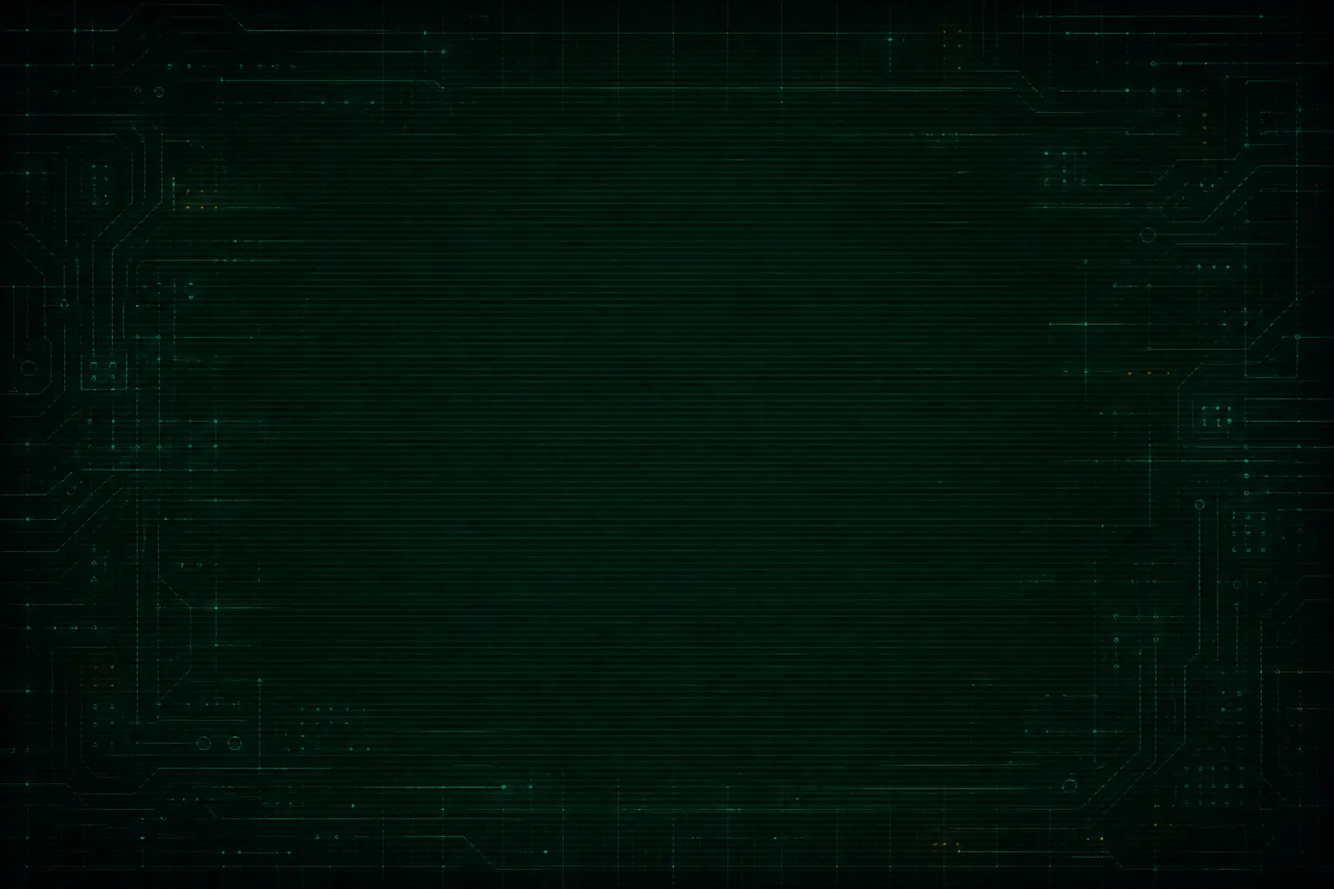
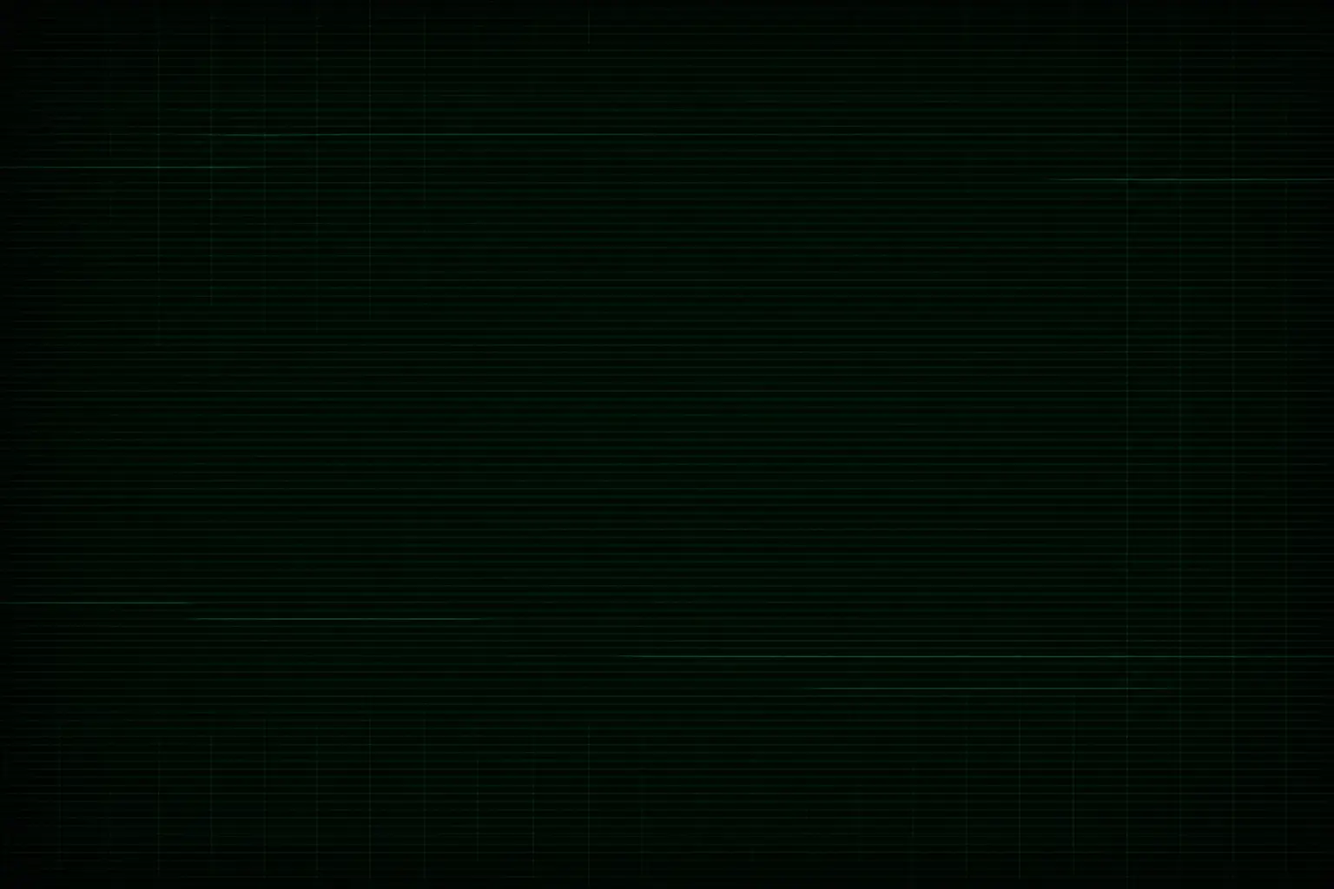
fix: refine lorebook theme art direction

diff --git a/frontend/src/styles.css b/frontend/src/styles.css
@@ -757,21 +757,28 @@ details > summary { padding: 13px 0; color: var(--ink); font-size: 13px; font-we
 .lorebook-theme-button:hover { transform: translateY(-1px); }
 .lorebook-theme-button.active { border-color: var(--nav-accent); box-shadow: 0 0 0 3px var(--nav-deep), 0 0 0 5px var(--nav-accent); transform: scale(.88); }
 .lorebook-theme-button.theme-normal { color: #f0bc65; background: radial-gradient(circle at 35% 30%, #3f6c63, #14322e 72%); }
-.lorebook-theme-button.theme-fantasia { color: #352012; background: radial-gradient(circle at 35% 30%, #efc87d, #9a5228 72%); }
+.lorebook-theme-button.theme-fantasia { color: #6f2f29; background: radial-gradient(circle at 35% 30%, #fff1c8, #d3a76e 72%); }
 .lorebook-theme-button.theme-mechanical { color: #baffd6; background: repeating-linear-gradient(0deg, #071b17 0 2px, #0d402f 2px 3px); }
-.lorebook-theme-button.theme-urban { color: #ffd283; background: radial-gradient(circle at 30% 25%, #d52d87, #4c102f 58%, #170d1b); }
+.lorebook-theme-button.theme-urban { color: #ffca72; background: radial-gradient(circle at 28% 25%, #2bbbd0, #49388f 46%, #0a1732 75%); }
 .lorebook-list button { display: grid; gap: 5px; padding: 12px; border-left: 3px solid transparent; }
 .lorebook-list button.active { border-left-color: var(--signal); background: #fff; }
 .lorebook-list strong { font: 600 14px/1.35 Georgia, "Noto Serif KR", serif; }
 .lorebook-list small { color: var(--muted-text); font-size: 9px; }
+.lorebook-shelf-title { margin: 0; font: 700 21px/1.2 Georgia, "Noto Serif KR", serif; letter-spacing: -.03em; }
 .lorebook-reader { min-width: 0; }
-.lorebook-sheet { padding: clamp(22px, 5vw, 58px); border-left: 4px solid var(--signal); background: #fff; }
+.lorebook-sheet { position: relative; isolation: isolate; overflow: hidden; padding: clamp(22px, 5vw, 58px); border-left: 4px solid var(--signal); background: #fff; }
+.lorebook-sheet > * { position: relative; z-index: 1; }
 .lorebook-sheet-heading { display: flex; justify-content: space-between; align-items: start; gap: 24px; padding-bottom: 24px; border-bottom: 1px solid var(--line); }
 .lorebook-title-block { min-width: 0; }
 .lorebook-title-block h2 { max-width: 920px; margin: 0; overflow-wrap: anywhere; color: var(--ink); font: 600 clamp(28px, 4vw, 47px)/1.12 "Noto Serif KR", "Nanum Myeongjo", Georgia, serif; letter-spacing: -.035em; }
 .lorebook-sheet-heading input { padding: 2px 0; border: 0; border-radius: 0; font: 600 clamp(28px, 4vw, 47px)/1.08 Georgia, "Noto Serif KR", serif; letter-spacing: -.04em; }
 .lorebook-sheet-heading div > span { display: block; margin-top: 8px; color: var(--muted-text); font-size: 10px; }
 .lorebook-heading-actions { flex: 0 0 auto; display: grid; justify-items: end; gap: 12px; }
+.lorebook-heading-actions .lorebook-edit-button {
+  color: var(--nav-accent); border-color: #607f76; background: var(--nav-deep);
+  box-shadow: 0 3px 10px rgba(5,24,20,.16);
+}
+.lorebook-heading-actions .lorebook-edit-button:hover { color: #ffe0a5; border-color: #88a39b; background: var(--nav-active); }
 .lorebook-mark { flex: 0 0 auto; padding: 8px 10px; border: 1px solid #a66c45; color: #97512a; font: 750 9px/1.25 monospace; letter-spacing: .18em; text-align: center; transform: rotate(2deg); }
 .lorebook-body { min-height: 68vh; margin-top: 24px; padding: 4px 0; border: 0; background: transparent; font: 17px/2 Georgia, "Noto Serif KR", serif; }
 .lorebook-body-reader { height: auto; min-height: 55vh; overflow: visible; }
@@ -793,10 +800,15 @@ details > summary { padding: 13px 0; color: var(--ink); font-size: 13px; font-we
 .lorebook-empty { min-height: 480px; display: grid; place-content: center; justify-items: start; }
 
 /* Lorebook themes are a browser-local reading lens; content and export data remain unchanged. */
+html[data-lorebook-theme="fantasia"] .app-main.workspace-main { background: #3c2922; }
+html[data-lorebook-theme="mechanical"] .app-main.workspace-main { background: #010806; }
+html[data-lorebook-theme="urban"] .app-main.workspace-main { background: #080e20; }
+html[data-lorebook-theme] .app-main.workspace-main { transition: background-color .22s ease; }
+
 .lorebook-page[data-lorebook-theme="fantasia"] .lorebook-shelf {
-  color: #3d2718; border-color: #9b6d3c;
-  background-color: #cda66c;
-  background-image: linear-gradient(rgba(232,198,133,.7), rgba(205,159,91,.64)), url('/themes/lorebook-fantasia.webp');
+  color: #743a31; border-color: #a87859;
+  background-color: #ead7ad;
+  background-image: linear-gradient(rgba(250,239,210,.42), rgba(238,217,174,.38)), url('/themes/lorebook-fantasia.webp');
   background-size: cover;
 }
 .lorebook-page[data-lorebook-theme="fantasia"] .lorebook-theme-toolbar,
@@ -805,35 +817,38 @@ details > summary { padding: 13px 0; color: var(--ink); font-size: 13px; font-we
 .lorebook-page[data-lorebook-theme="fantasia"] .lorebook-theme-heading span,
 .lorebook-page[data-lorebook-theme="fantasia"] .lorebook-list small,
 .lorebook-page[data-lorebook-theme="fantasia"] .lorebook-title-block > span,
-.lorebook-page[data-lorebook-theme="fantasia"] .lorebook-read-note { color: #664428; }
+.lorebook-page[data-lorebook-theme="fantasia"] .lorebook-read-note { color: #805249; }
 .lorebook-page[data-lorebook-theme="fantasia"] .lorebook-theme-heading strong,
 .lorebook-page[data-lorebook-theme="fantasia"] .lorebook-list strong,
 .lorebook-page[data-lorebook-theme="fantasia"] .lorebook-title-block h2,
 .lorebook-page[data-lorebook-theme="fantasia"] .lorebook-body-reader h2,
 .lorebook-page[data-lorebook-theme="fantasia"] .lorebook-body-reader h3,
-.lorebook-page[data-lorebook-theme="fantasia"] .lorebook-body-reader h4 { color: #352013; }
-.lorebook-page[data-lorebook-theme="fantasia"] .lorebook-list button { color: #3d2718; }
+.lorebook-page[data-lorebook-theme="fantasia"] .lorebook-body-reader h4 { color: #652820; font-weight: 700; }
+.lorebook-page[data-lorebook-theme="fantasia"] .lorebook-shelf-title { color: #7b2d25; font-size: 23px; font-weight: 800; text-shadow: 0 1px rgba(255,248,220,.8); }
+.lorebook-page[data-lorebook-theme="fantasia"] .lorebook-list button { color: #71362f; }
 .lorebook-page[data-lorebook-theme="fantasia"] .lorebook-list button:hover,
-.lorebook-page[data-lorebook-theme="fantasia"] .lorebook-list button.active { border-color: rgba(91,54,27,.38); background: rgba(255,240,200,.56); }
-.lorebook-page[data-lorebook-theme="fantasia"] .lorebook-list button.active { border-left-color: #8e3e23; }
-.lorebook-page[data-lorebook-theme="fantasia"] .badge { color: #5a3b21; border-color: #9f7246; background: rgba(247,222,170,.58); }
+.lorebook-page[data-lorebook-theme="fantasia"] .lorebook-list button.active { border-color: rgba(121,59,45,.38); background: rgba(255,248,224,.62); }
+.lorebook-page[data-lorebook-theme="fantasia"] .lorebook-list button.active { border-left-color: #9a4334; }
+.lorebook-page[data-lorebook-theme="fantasia"] .badge { color: #783a30; border-color: #b58665; background: rgba(255,244,216,.62); }
 .lorebook-page[data-lorebook-theme="fantasia"] .lorebook-sheet {
-  color: #40291a; border-color: #9b4727;
-  background-color: #d8ae6c;
-  background-image: linear-gradient(rgba(244,214,154,.69), rgba(222,177,104,.71)), url('/themes/lorebook-fantasia.webp');
+  color: #71362f; border-color: #a94c3c;
+  background-color: #f0dfb8;
+  background-image: linear-gradient(rgba(255,247,222,.34), rgba(241,221,180,.3)), url('/themes/lorebook-fantasia.webp');
   background-size: cover; background-attachment: local;
-  box-shadow: inset 0 0 70px rgba(83,42,17,.12), 0 12px 32px rgba(72,43,21,.15);
+  box-shadow: inset 0 0 48px rgba(122,68,42,.06), 0 14px 34px rgba(24,12,8,.28);
 }
-.lorebook-page[data-lorebook-theme="fantasia"] .eyebrow { color: #7a3d20; }
-.lorebook-page[data-lorebook-theme="fantasia"] .lorebook-mark { color: #71381d; border-color: #814521; }
+.lorebook-page[data-lorebook-theme="fantasia"] .lorebook-title-block h2 { font-weight: 750; }
+.lorebook-page[data-lorebook-theme="fantasia"] .lorebook-body { font-weight: 600; text-shadow: 0 1px rgba(255,248,225,.6); }
+.lorebook-page[data-lorebook-theme="fantasia"] .eyebrow { color: #8b3f33; }
+.lorebook-page[data-lorebook-theme="fantasia"] .lorebook-mark { color: #7e3229; border-color: #9a4d3c; }
 .lorebook-page[data-lorebook-theme="fantasia"] .lorebook-body-editor,
 .lorebook-page[data-lorebook-theme="fantasia"] .lorebook-sheet-heading input,
-.lorebook-page[data-lorebook-theme="fantasia"] .lorebook-actions select { color: #352013; border-color: #9f7246; background: rgba(255,239,198,.66); }
+.lorebook-page[data-lorebook-theme="fantasia"] .lorebook-actions select { color: #71362f; border-color: #b58665; background: rgba(255,248,224,.72); font-weight: 600; }
 
 .lorebook-page[data-lorebook-theme="mechanical"] .lorebook-shelf {
-  color: #a9f5ca; border-color: #287b5b;
-  background-color: #061713;
-  background-image: linear-gradient(rgba(3,22,18,.56), rgba(3,22,18,.74)), url('/themes/lorebook-mechanical.webp');
+  color: #73ff9e; border-color: #1b7042;
+  background-color: #010d08;
+  background-image: linear-gradient(rgba(0,13,7,.22), rgba(0,12,7,.32)), url('/themes/lorebook-mechanical.webp');
   background-size: cover;
 }
 .lorebook-page[data-lorebook-theme="mechanical"] .lorebook-theme-toolbar,
@@ -842,77 +857,93 @@ details > summary { padding: 13px 0; color: var(--ink); font-size: 13px; font-we
 .lorebook-page[data-lorebook-theme="mechanical"] .lorebook-theme-heading span,
 .lorebook-page[data-lorebook-theme="mechanical"] .lorebook-list small,
 .lorebook-page[data-lorebook-theme="mechanical"] .lorebook-title-block > span,
-.lorebook-page[data-lorebook-theme="mechanical"] .lorebook-read-note { color: #71bd97; }
+.lorebook-page[data-lorebook-theme="mechanical"] .lorebook-read-note { color: #5fcd83; }
 .lorebook-page[data-lorebook-theme="mechanical"] .lorebook-theme-heading strong,
-.lorebook-page[data-lorebook-theme="mechanical"] .lorebook-shelf h3,
 .lorebook-page[data-lorebook-theme="mechanical"] .mobile-document-picker,
 .lorebook-page[data-lorebook-theme="mechanical"] .lorebook-list strong,
 .lorebook-page[data-lorebook-theme="mechanical"] .lorebook-title-block h2,
 .lorebook-page[data-lorebook-theme="mechanical"] .lorebook-body-reader h2,
 .lorebook-page[data-lorebook-theme="mechanical"] .lorebook-body-reader h3,
-.lorebook-page[data-lorebook-theme="mechanical"] .lorebook-body-reader h4 { color: #b9ffd8; text-shadow: 0 0 12px rgba(46,255,151,.18); }
-.lorebook-page[data-lorebook-theme="mechanical"] .lorebook-list button { color: #a9f5ca; }
+.lorebook-page[data-lorebook-theme="mechanical"] .lorebook-body-reader h4 { color: #8affad; text-shadow: 0 0 9px rgba(64,255,133,.27); }
+.lorebook-page[data-lorebook-theme="mechanical"] .lorebook-shelf-title { color: #7dffa4; font: 800 22px/1.15 ui-monospace, "SFMono-Regular", Consolas, "Noto Sans KR", monospace; letter-spacing: .08em; text-shadow: 0 0 10px rgba(48,255,122,.42); }
+.lorebook-page[data-lorebook-theme="mechanical"] .lorebook-list button { color: #73ff9e; }
 .lorebook-page[data-lorebook-theme="mechanical"] .lorebook-list button:hover,
-.lorebook-page[data-lorebook-theme="mechanical"] .lorebook-list button.active { border-color: #246d52; background: rgba(15,71,51,.7); }
-.lorebook-page[data-lorebook-theme="mechanical"] .lorebook-list button.active { border-left-color: #52f3a3; }
-.lorebook-page[data-lorebook-theme="mechanical"] .badge { color: #9affc6; border-color: #2b7558; background: rgba(6,40,29,.82); }
+.lorebook-page[data-lorebook-theme="mechanical"] .lorebook-list button.active { border-color: #1b7544; background: rgba(4,55,29,.68); }
+.lorebook-page[data-lorebook-theme="mechanical"] .lorebook-list button.active { border-left-color: #66ff96; }
+.lorebook-page[data-lorebook-theme="mechanical"] .badge { color: #84ffa8; border-color: #277a49; background: rgba(0,31,16,.84); }
 .lorebook-page[data-lorebook-theme="mechanical"] .lorebook-sheet {
-  color: #a9efc7; border-color: #45e698;
-  background-color: #031713;
-  background-image: linear-gradient(rgba(2,22,17,.78), rgba(2,24,18,.81)), url('/themes/lorebook-mechanical.webp');
+  color: #72ff9d; border-color: #4dff85;
+  background-color: #000c07;
+  background-image: linear-gradient(rgba(0,12,7,.28), rgba(0,13,7,.35)), url('/themes/lorebook-mechanical.webp');
   background-size: cover; background-attachment: local;
-  box-shadow: inset 0 0 80px rgba(24,205,119,.05), 0 0 24px rgba(19,125,82,.13);
+  box-shadow: inset 0 0 60px rgba(0,0,0,.28), 0 0 28px rgba(30,255,108,.11);
   font-family: ui-monospace, "SFMono-Regular", Consolas, "Noto Sans KR", monospace;
 }
-.lorebook-page[data-lorebook-theme="mechanical"] .eyebrow { color: #68eaae; }
-.lorebook-page[data-lorebook-theme="mechanical"] .lorebook-mark { color: #90ffbf; border-color: #45b77c; }
-.lorebook-page[data-lorebook-theme="mechanical"] .lorebook-body { font-family: ui-monospace, "SFMono-Regular", Consolas, "Noto Sans KR", monospace; letter-spacing: .015em; }
+.lorebook-page[data-lorebook-theme="mechanical"] .lorebook-sheet::after {
+  content: ""; position: absolute; z-index: 0; inset: 0; pointer-events: none;
+  background: repeating-linear-gradient(0deg, transparent 0 4px, rgba(80,255,139,.05) 4px 5px), linear-gradient(90deg, transparent 0 22%, rgba(83,255,141,.08) 22% 22.3%, transparent 22.3% 67%, rgba(83,255,141,.06) 67% 67.2%, transparent 67.2%);
+  opacity: .15; animation: lorebook-crt-glitch 8s steps(1, end) infinite;
+}
+.lorebook-page[data-lorebook-theme="mechanical"] .eyebrow { color: #65ff98; }
+.lorebook-page[data-lorebook-theme="mechanical"] .lorebook-mark { color: #84ffa9; border-color: #3bd671; }
+.lorebook-page[data-lorebook-theme="mechanical"] .lorebook-body { font-family: ui-monospace, "SFMono-Regular", Consolas, "Noto Sans KR", monospace; font-weight: 560; letter-spacing: .015em; text-shadow: 0 0 6px rgba(55,255,126,.16); }
 .lorebook-page[data-lorebook-theme="mechanical"] .lorebook-body-editor,
 .lorebook-page[data-lorebook-theme="mechanical"] .lorebook-sheet-heading input,
-.lorebook-page[data-lorebook-theme="mechanical"] .lorebook-actions select { color: #b9ffd8; border-color: #287b5b; background: rgba(2,28,20,.82); caret-color: #f0bc65; }
+.lorebook-page[data-lorebook-theme="mechanical"] .lorebook-actions select { color: #7dffa4; border-color: #25794a; background: rgba(0,27,14,.86); caret-color: #f0bc65; }
 
 .lorebook-page[data-lorebook-theme="urban"] .lorebook-shelf {
-  color: #f0c6d5; border-color: #7c365c;
-  background-color: #24101e;
-  background-image: linear-gradient(rgba(34,11,29,.68), rgba(45,13,34,.7)), url('/themes/lorebook-urban.webp');
+  color: #dce7ff; border-color: #344e88;
+  background-color: #09172f;
+  background-image: linear-gradient(rgba(5,16,39,.47), rgba(7,18,43,.58)), url('/themes/lorebook-urban.webp');
   background-size: cover;
 }
 .lorebook-page[data-lorebook-theme="urban"] .lorebook-theme-toolbar,
 .lorebook-page[data-lorebook-theme="urban"] .lorebook-sheet-heading,
-.lorebook-page[data-lorebook-theme="urban"] .lorebook-actions { border-color: rgba(225,89,151,.35); }
+.lorebook-page[data-lorebook-theme="urban"] .lorebook-actions { border-color: rgba(95,166,218,.38); }
 .lorebook-page[data-lorebook-theme="urban"] .lorebook-theme-heading span,
 .lorebook-page[data-lorebook-theme="urban"] .lorebook-list small,
 .lorebook-page[data-lorebook-theme="urban"] .lorebook-title-block > span,
-.lorebook-page[data-lorebook-theme="urban"] .lorebook-read-note { color: #cf94ad; }
+.lorebook-page[data-lorebook-theme="urban"] .lorebook-read-note { color: #91abd7; }
 .lorebook-page[data-lorebook-theme="urban"] .lorebook-theme-heading strong,
-.lorebook-page[data-lorebook-theme="urban"] .lorebook-shelf h3,
 .lorebook-page[data-lorebook-theme="urban"] .mobile-document-picker,
 .lorebook-page[data-lorebook-theme="urban"] .lorebook-list strong,
 .lorebook-page[data-lorebook-theme="urban"] .lorebook-title-block h2,
 .lorebook-page[data-lorebook-theme="urban"] .lorebook-body-reader h2,
 .lorebook-page[data-lorebook-theme="urban"] .lorebook-body-reader h3,
-.lorebook-page[data-lorebook-theme="urban"] .lorebook-body-reader h4 { color: #ffd5e3; text-shadow: 0 0 16px rgba(229,58,142,.18); }
-.lorebook-page[data-lorebook-theme="urban"] .lorebook-list button { color: #f0c6d5; }
+.lorebook-page[data-lorebook-theme="urban"] .lorebook-body-reader h4 { color: #e8e1ff; text-shadow: 0 0 13px rgba(119,185,255,.18); }
+.lorebook-page[data-lorebook-theme="urban"] .lorebook-shelf-title { color: #eef2ff; font: 800 22px/1.15 Pretendard, "Noto Sans KR", sans-serif; letter-spacing: -.045em; text-shadow: 0 0 13px rgba(98,196,255,.4); }
+.lorebook-page[data-lorebook-theme="urban"] .lorebook-list button { color: #dce7ff; }
 .lorebook-page[data-lorebook-theme="urban"] .lorebook-list button:hover,
-.lorebook-page[data-lorebook-theme="urban"] .lorebook-list button.active { border-color: #783257; background: rgba(87,24,61,.72); }
-.lorebook-page[data-lorebook-theme="urban"] .lorebook-list button.active { border-left-color: #e35b9d; }
-.lorebook-page[data-lorebook-theme="urban"] .badge { color: #ffd28a; border-color: #8c4968; background: rgba(54,15,42,.8); }
+.lorebook-page[data-lorebook-theme="urban"] .lorebook-list button.active { border-color: #395d9c; background: rgba(17,45,90,.7); }
+.lorebook-page[data-lorebook-theme="urban"] .lorebook-list button.active { border-left-color: #64d4f3; }
+.lorebook-page[data-lorebook-theme="urban"] .badge { color: #ffd084; border-color: #496ba4; background: rgba(5,23,53,.82); }
 .lorebook-page[data-lorebook-theme="urban"] .lorebook-sheet {
-  color: #f0cad5; border-color: #d94f90;
-  background-color: #230d20;
-  background-image: linear-gradient(rgba(35,9,29,.76), rgba(39,9,31,.78)), url('/themes/lorebook-urban.webp');
+  color: #dbe7ff; border-color: #5ccdea;
+  background-color: #071630;
+  background-image: linear-gradient(rgba(5,17,42,.56), rgba(6,18,45,.62)), url('/themes/lorebook-urban.webp');
   background-size: cover; background-attachment: local;
-  box-shadow: inset 0 0 76px rgba(215,46,128,.07), 0 12px 34px rgba(56,9,41,.17);
+  box-shadow: inset 0 0 68px rgba(2,9,26,.18), 0 14px 34px rgba(1,5,18,.35);
 }
-.lorebook-page[data-lorebook-theme="urban"] .eyebrow { color: #f0bc65; }
-.lorebook-page[data-lorebook-theme="urban"] .lorebook-mark { color: #ffd08a; border-color: #cc6a74; }
+.lorebook-page[data-lorebook-theme="urban"] .eyebrow { color: #ffca78; }
+.lorebook-page[data-lorebook-theme="urban"] .lorebook-mark { color: #ffd084; border-color: #5fc6df; }
 .lorebook-page[data-lorebook-theme="urban"] .lorebook-body-editor,
 .lorebook-page[data-lorebook-theme="urban"] .lorebook-sheet-heading input,
-.lorebook-page[data-lorebook-theme="urban"] .lorebook-actions select { color: #ffd5e3; border-color: #84385f; background: rgba(42,10,34,.82); caret-color: #f0bc65; }
+.lorebook-page[data-lorebook-theme="urban"] .lorebook-actions select { color: #e6edff; border-color: #3d5f99; background: rgba(5,23,55,.84); caret-color: #f0bc65; }
 
-.lorebook-page:not([data-lorebook-theme="normal"]) .lorebook-sheet .secondary,
 .lorebook-page:not([data-lorebook-theme="normal"]) .lorebook-sheet .ghost { color: var(--nav-accent); border-color: currentColor; background: rgba(10,20,18,.24); }
 .lorebook-page:not([data-lorebook-theme="normal"]) .lorebook-sheet .danger-button { color: #ffaaa3; border-color: rgba(255,170,163,.6); background: rgba(35,10,14,.28); }
+
+@keyframes lorebook-crt-glitch {
+  0%, 89%, 94%, 100% { clip-path: inset(0); opacity: .13; transform: translateX(0); }
+  90% { clip-path: inset(16% 0 76%); opacity: .28; transform: translateX(9px); }
+  91% { clip-path: inset(52% 0 39%); opacity: .2; transform: translateX(-6px); }
+  92% { clip-path: inset(78% 0 14%); opacity: .26; transform: translateX(5px); }
+  93% { clip-path: inset(31% 0 61%); opacity: .16; transform: translateX(-3px); }
+}
+
+@media (prefers-reduced-motion: reduce) {
+  .lorebook-page[data-lorebook-theme="mechanical"] .lorebook-sheet::after { animation: none; opacity: .09; }
+}
 
 @media (max-width: 1240px) {
   .archive-layout { grid-template-columns: 280px minmax(0, 1fr); }

diff --git a/frontend/tests/workspace.spec.js b/frontend/tests/workspace.spec.js
@@ -427,6 +427,17 @@ test('lorebook reading themes switch, persist, and leave content actions unchang
     ['메카니컬', 'mechanical', 'lorebook-mechanical.webp'],
     ['어반 판타지', 'urban', 'lorebook-urban.webp']
   ];
+  const workspaceColors = {
+    fantasia: 'rgb(60, 41, 34)',
+    mechanical: 'rgb(1, 8, 6)',
+    urban: 'rgb(8, 14, 32)'
+  };
+  const shelfTitleColors = {
+    normal: 'rgb(24, 48, 44)',
+    fantasia: 'rgb(123, 45, 37)',
+    mechanical: 'rgb(125, 255, 164)',
+    urban: 'rgb(238, 242, 255)'
+  };
 
   await expect(page.getByRole('group', { name: '로어북 열람 테마' })).toBeVisible();
   await expect(page.getByRole('button', { name: '로어북 테마: 노말' })).toHaveAttribute('aria-pressed', 'true');
@@ -434,9 +445,17 @@ test('lorebook reading themes switch, persist, and leave content actions unchang
     await page.getByRole('button', { name: `로어북 테마: ${name}` }).click();
     await expect(lorebookPage).toHaveAttribute('data-lorebook-theme', id);
     await expect(page.getByRole('button', { name: `로어북 테마: ${name}` })).toHaveAttribute('aria-pressed', 'true');
+    await expect(page.getByRole('heading', { name: '책장' })).toHaveCSS('color', shelfTitleColors[id]);
+    await expect(page.getByRole('button', { name: '글 편집' })).toHaveCSS('background-color', 'rgb(20, 50, 46)');
+    await expect(page.getByRole('button', { name: '글 편집' })).toHaveCSS('color', 'rgb(240, 188, 101)');
     if (asset) {
       const backgroundImage = await page.locator('.lorebook-sheet').evaluate((node) => getComputedStyle(node).backgroundImage);
       expect(backgroundImage).toContain(asset);
+      await expect(page.locator('.workspace-main')).toHaveCSS('background-color', workspaceColors[id]);
+    }
+    if (id === 'mechanical') {
+      const glitchAnimation = await page.locator('.lorebook-sheet').evaluate((node) => getComputedStyle(node, '::after').animationName);
+      expect(glitchAnimation).toBe('lorebook-crt-glitch');
     }
   }
 
@@ -447,9 +466,10 @@ test('lorebook reading themes switch, persist, and leave content actions unchang
   await expect(page.getByRole('button', { name: '로어북 테마: 어반 판타지' })).toHaveAttribute('aria-pressed', 'true');
   await page.getByRole('button', { name: '글 편집' }).click();
   await expect(page.getByLabel('로어북 글 내용')).toHaveJSProperty('tagName', 'TEXTAREA');
-  await expect(page.getByLabel('로어북 글 내용')).toHaveCSS('color', 'rgb(255, 213, 227)');
+  await expect(page.getByLabel('로어북 글 내용')).toHaveCSS('color', 'rgb(230, 237, 255)');
   await page.getByRole('button', { name: '취소' }).click();
-  await page.getByRole('button', { name: '로어북 테마: 노말' }).click();
+  await page.goto('/documents');
+  await expect(page.locator('html')).not.toHaveAttribute('data-lorebook-theme');
 });
 
 test('a project can be added after projects already exist', async ({ page }, testInfo) => {

diff --git a/frontend/src/routes/lorebook/+page.svelte b/frontend/src/routes/lorebook/+page.svelte
@@ -23,13 +23,20 @@
   onMount(() => {
     const storedTheme = localStorage.getItem(LOREBOOK_THEME_KEY);
     if (lorebookThemes.some((theme) => theme.id === storedTheme)) lorebookTheme = storedTheme;
+    syncWorkspaceTheme();
     loadInitial();
+    return () => document.documentElement.removeAttribute('data-lorebook-theme');
   });
 
   function selectTheme(themeId) {
     if (!lorebookThemes.some((theme) => theme.id === themeId)) return;
     lorebookTheme = themeId;
     localStorage.setItem(LOREBOOK_THEME_KEY, themeId);
+    syncWorkspaceTheme();
+  }
+
+  function syncWorkspaceTheme() {
+    document.documentElement.dataset.lorebookTheme = lorebookTheme;
   }
 
   async function loadInitial() {
@@ -147,7 +154,7 @@
           {/each}
         </div>
       </div>
-      <div class="row spread"><div><p class="eyebrow">완성된 글</p><h3 style="margin:0">책장</h3></div><span class="badge">{entries.length}</span></div>
+      <div class="row spread"><div><p class="eyebrow">완성된 글</p><h3 class="lorebook-shelf-title">책장</h3></div><span class="badge">{entries.length}</span></div>
       <label class="mobile-document-picker">읽을 글<select value={selected?.id || ''} on:change={(event) => selectEntry(entries.find((entry) => entry.id === event.currentTarget.value) || null)}>{#each entries as entry}<option value={entry.id}>{entry.title}</option>{/each}</select></label>
       <div class="list lorebook-list">
         {#each entries as entry}
@@ -167,7 +174,7 @@
               {#if editing}<input aria-label="로어북 글 제목" bind:value={selected.title} />{:else}<h2>{selected.title}</h2>{/if}
               <span>{statusLabel(selected.status)} · {selected.body_markdown.length.toLocaleString()}자 · {new Date(selected.published_at || selected.updated_at).toLocaleString('ko-KR')}</span>
             </div>
-            <div class="lorebook-heading-actions"><span class="lorebook-mark">LORE<br />BOOK</span>{#if !editing}<button class="secondary" on:click={() => editing = true}>글 편집</button>{/if}</div>
+            <div class="lorebook-heading-actions"><span class="lorebook-mark">LORE<br />BOOK</span>{#if !editing}<button class="secondary lorebook-edit-button" on:click={() => editing = true}>글 편집</button>{/if}</div>
           </header>
           {#if editing}
             <textarea class="lorebook-body lorebook-body-editor" aria-label="로어북 글 내용" bind:value={selected.body_markdown}></textarea>

diff --git a/docs/UI_PAGE_CONTRACT.md b/docs/UI_PAGE_CONTRACT.md
@@ -309,7 +309,9 @@
 
 - `.lorebook-layout`은 책장과 읽기 면의 2열입니다.
 - 책장 왼쪽 상단의 네 원형 버튼은 `노말 / 판타지아 / 메카니컬 / 어반 판타지` 열람 테마입니다. 선택은 브라우저 로컬 설정으로만 유지하며 프로젝트·본문·생성 입력·내보내기 데이터에 기록하지 않습니다.
-- 노말은 기존 종이 문서를 보존하고, 나머지 테마는 저대비 배경 질감과 전용 글자색을 사용합니다. 읽기·편집 양쪽에서 본문과 모든 동작의 대비를 유지하며 선택 상태는 금색 ring·번호·`aria-pressed`로 함께 표시합니다.
+- 노말은 기존 종이 문서를 보존합니다. 판타지아는 밝은 황백색 양피지와 굵은 적갈색 글자, 메카니컬은 거의 검은 단순 선형 CRT와 밝은 형광 녹색 글자·배경 한정 미세 글리치, 어반 판타지는 공포 질감이 없는 남색 기반 비 내린 도시 네온과 밝은 청백색 글자를 사용합니다.
+- 비노말 테마에서는 `.workspace-main`의 문서 밖 여백을 해당 이미지보다 어두운 단색으로 연결합니다. `글 편집`은 테마가 덮어쓰지 않는 공통 진녹색·금색 버튼이며 모든 테마에서 같은 컴포넌트 표현을 유지합니다.
+- 읽기·편집 양쪽에서 본문과 모든 동작의 대비를 유지하며 선택 상태는 금색 ring·번호·`aria-pressed`로 함께 표시합니다. 움직임 줄이기 환경에서는 CRT 글리치 애니메이션을 중단합니다.
 - `.lorebook-sheet`는 입력 form이 아니라 종이 문서처럼 읽히는 것이 기본입니다.
 - `글 편집` 뒤에만 제목·본문·상태 입력이 열립니다. 저장·취소 뒤 읽기 모드로 돌아갑니다.
 - 읽기 모드의 문단 줄바꿈과 긴 제목을 보존합니다.
@@ -358,7 +360,7 @@
 | 결과물 형태 | 선택값이 견본에 즉시 안 보임, 견본이 viewport에서 잘림, 의미 설명 없이 select만 나열 |
 | 확인·작성 | 수정 후 확인으로 못 돌아옴, 취소해도 선택이 남음, 실행 전 단계가 녹색 |
 | 원고 작업 | 제목 toolbar의 과도한 여백·버튼 오정렬, 문단 카드 사이의 큰 공백, 세 원고 도구가 동시에 본문과 경쟁, 완성 설정이 견본 없는 form 묶음, 완성본 확인의 반복 수정 버튼, 모바일 단계 이동 후 새 화면 상단 이탈, 본문 스크롤 불가, 하단 계속 버튼 접근 불가 |
-| 로어북 | 기본 편집 상태, 출처 초안까지 함께 삭제, provenance가 본문보다 우세, 테마가 본문·내보내기 데이터에 섞임, 질감 때문에 읽기·편집 대비가 무너짐 |
+| 로어북 | 기본 편집 상태, 출처 초안까지 함께 삭제, provenance가 본문보다 우세, 테마가 본문·내보내기 데이터에 섞임, 질감 때문에 읽기·편집 대비가 무너짐, 문서 밖 여백이 밝게 떠 보임, 공통 `글 편집` 버튼이 테마마다 달라짐, 어반 판타지가 공포 질감으로 퇴행함 |
 | 공통 | tooltip 잘림, 모바일 가로 overflow, 빈 command bar, 죽은 버튼, orphan modal |
 
 ## 13. 변경 시 적용 순서

diff --git a/VERIFICATION.md b/VERIFICATION.md
@@ -32,7 +32,7 @@
 - 모바일 전개 방식 화면 390×844: 문서/탭 가로 넘침 없음, 네 탭 `nowrap`, browser pageerror 없음 PASS
 - 글 만들기·원고 작업 단계 메뉴의 `page-tools` 결합, 글 만들기 본문 외곽 여백 0, 자료 종류 추천 설정 제거를 1600×900/390×844/360×844에서 확인; 가로 넘침·pageerror 없음 PASS
 - 원고 작업 3단계 표현 개편: 초안 제목 toolbar 상단 padding 4px·제목/동작 하단 정렬·문단/카드 내부 간격 8px, `재작성 / 문장 점검 / 설정 후보` 단일 활성 원고 도구, 글 만들기와 같은 완성본 견본·선택 deck, 항목별 수정 버튼이 없는 완성본 요약을 실제 데이터 desktop/mobile `2 passed`; 390×844·360×844 단계 전환 뒤 견본 y=97px·최종 요약 y=91px, 가로 overflow·pageerror 없음 PASS
-- 로어북 로컬 열람 테마: 노말·판타지아·메카니컬·어반 판타지 원형 선택, 새로고침 유지, 본문·내보내기 불변과 어반 편집 입력 대비를 실제 데이터 desktop/mobile `2 passed`; 생성 WebP 40–260KB, 1600×900·390×844·360×844 스크린샷에서 버튼/책장/reader 잘림·가로 overflow·pageerror 없음 PASS
+- 로어북 로컬 열람 테마: 밝은 황백색·굵은 적갈색 판타지아, 단순 선형 암부·형광 녹색·8초 간격 배경 글리치 메카니컬, 공포 질감을 제거한 남색 도시 네온 어반 판타지로 재조정. 이미지보다 어두운 `.workspace-main`, 테마별 `책장` 제목, 네 테마 공통 진녹색·금색 `글 편집`, route 이탈 시 배경 정리를 실제 데이터 desktop/mobile `2 passed`; 생성 WebP 16–88KB, 1600×900·390×844·360×844 스크린샷에서 잘림·가로 overflow·pageerror 없음 PASS
 - 73개 Diablo 자료에서 글 만들기 카드 18개 제한, 모바일 선택 영역 456px, 데스크톱 자료 목록 848px/내부 스크롤, `종족·생물` 필터, 단계 이동 pageerror 없음 PASS
 - 모바일 프로젝트 생성 창 366×758(하단 메뉴 위), 프로젝트 제목 첫 화면 y=408, 로어북 읽기 기본/편집 왕복, 원고 도구 점프 PASS
 - 원고 저장 회귀: 제목·문단 수정과 새 문단 추가 → 다음 단계 자동 저장 → 새로고침 복원 → 테스트 데이터 원상복구 PASS

diff --git a/docs/ACCEPTANCE_TESTS.md b/docs/ACCEPTANCE_TESTS.md
@@ -39,6 +39,6 @@
 | 35 | 페이지 UI 안전성 재감사 | PASS | 글 만들기 footer 수직 밀도, 문체·필력 공통 작업면 간격·높이·스크롤, 100개 설정 카드 높이 보존, 3개 viewport 고아·overflow 검사 |
 | 36 | 프로젝트 로컬 UI 안전 점검 | PASS | `$lore-studio-ui-safety`가 UI 계약·변경 체크리스트를 로드하고 route·migration·manifest·API 경유 정적 preflight를 실행하며 변경 유형별 문서·테스트 동기화 범위를 지정 |
 | 37 | 원고 작업 3단계 시각 단순화 | PASS | 콤팩트 제목·동작 정렬, 8px 문단 간격, 단일 활성 원고 도구, 결과 견본형 완성 설정, 수정 버튼 없는 최종 요약, 390px·360px 단계 전환 상단 복귀 |
-| 38 | 로어북 로컬 열람 테마 | PASS | 노말·판타지아·메카니컬·어반 판타지 전환/새로고침 유지, 읽기·편집 대비, 본문·내보내기 불변, desktop/mobile/narrow overflow 검사 |
+| 38 | 로어북 로컬 열람 테마 | PASS | 밝은 양피지·형광 CRT 글리치·남색 도시 네온 역할, 어두운 작업면 여백, 공통 편집 버튼, 전환/새로고침 유지, 읽기·편집 대비, 본문·내보내기 불변, desktop/mobile/narrow overflow 검사 |
 
 대표 실제 프로젝트 slug는 `black-route-chronicle`이며 로컬 전용 DB에 정식 세계관 자료 9개와 관계·집필 지침을 보관합니다. 기본 전개 방식 프리셋은 공용이고, 사용자가 만든 전개 방식과 참고 분석 승인 결과는 프로젝트에 귀속됩니다. 최신 자동 검증 수치는 루트 `VERIFICATION.md`를 권위 기록으로 사용합니다.

diff --git a/docs/USER_GUIDE.md b/docs/USER_GUIDE.md
@@ -63,7 +63,7 @@
 
 완성본은 초안 레코드 안에 섞이지 않고 별도 `로어북` 문서로 저장됩니다. 상단 `로어북`에서 완성된 글만 읽고 수정하고 Markdown·HTML·JSON으로 내보낼 수 있습니다. 로어북 글을 만든 뒤 출처 초안을 수정하면 이전 초안 기준이라는 경고가 표시되며, 원고 작업에서 최신 초안으로 다시 만들 수 있습니다.
 
-로어북 책장 왼쪽 위의 네 원형 버튼으로 `노말 / 판타지아 / 메카니컬 / 어반 판타지` 열람 테마를 바꿀 수 있습니다. 선택은 현재 브라우저에만 기억되며 프로젝트 설정이나 글 내용, 내보낸 파일에는 들어가지 않습니다. 원 안의 번호와 선택 ring으로 현재 테마를 구분할 수 있습니다.
+로어북 책장 왼쪽 위의 네 원형 버튼으로 `노말 / 판타지아 / 메카니컬 / 어반 판타지` 열람 테마를 바꿀 수 있습니다. 판타지아는 밝은 양피지, 메카니컬은 미세한 배경 글리치가 있는 형광 녹색 CRT, 어반 판타지는 비 내린 도시의 남색 네온입니다. 선택은 현재 브라우저에만 기억되며 프로젝트 설정이나 글 내용, 내보낸 파일에는 들어가지 않습니다. 원 안의 번호와 선택 ring으로 현재 테마를 구분할 수 있습니다.
 
 초안에서 추출한 설정 후보는 자동으로 세계관에 들어가지 않습니다. `이번 글만`, `설정 초안`, `정식 설정` 중 사용자가 직접 결정합니다. 초안은 Markdown으로, 로어북 완성본은 Markdown·HTML·JSON으로 내보낼 수 있습니다.
 

diff --git a/docs/CHANGE_SAFETY_CHECKLIST.md b/docs/CHANGE_SAFETY_CHECKLIST.md
@@ -182,6 +182,9 @@ docker compose exec -T backend alembic current
 - [ ] 로어북의 `노말 / 판타지아 / 메카니컬 / 어반 판타지` 원형 테마가 번호·이름·`aria-pressed`로 식별되고 새로고침 뒤에도 선택이 유지된다.
 - [ ] 로어북 테마 변경 전후 본문·프로젝트·생성 입력·내보내기 URL은 바뀌지 않으며 읽기/편집 전환과 저장·취소·삭제 동작이 그대로 유지된다.
 - [ ] 네 로어북 테마 모두 desktop 1600px·mobile 390px·narrow 360px에서 본문·제목·입력란·버튼 대비와 가로 overflow를 통과한다.
+- [ ] 판타지아는 밝은 양피지·굵은 적갈색, 메카니컬은 단순 선형 암부·형광 녹색·배경 한정 글리치, 어반 판타지는 공포 질감 없는 남색 도시 네온이라는 시각 역할을 유지한다.
+- [ ] 비노말 로어북의 `.workspace-main` 여백은 문서 이미지보다 어두운 단색이며 다른 route로 이동하면 테마 속성과 배경이 남지 않는다.
+- [ ] 로어북 `글 편집` 버튼은 네 테마 모두 동일한 진녹색 배경·금색 텍스트의 공통 표현이다.
 - [ ] 프로젝트 삭제 뒤 AuditLog의 삭제 이름은 남고 `project_id`는 `NULL`이다.
 - [ ] 73개 자료에서 카드끼리 겹치지 않고 `자료 더 보기`와 하단 이동 바도 겹치지 않는다.
 - [ ] 원고 작업의 제목·상태·저장·내보내기가 콤팩트 toolbar에서 하단 정렬되고 문단 카드 간격이 8px 안팎이다.

diff --git a/docs/IMPLEMENTATION_STATUS.md b/docs/IMPLEMENTATION_STATUS.md
@@ -35,7 +35,7 @@
 - 결과물 견본의 형식·시점·시제·분량 실시간 요약, 확인 항목의 수정 후 즉시 복귀, 실제 작성 진행에 따른 3단계 완료 색상
 - 세계관 자료의 저장 후 읽기 모드·명시적 글 편집, 프로젝트·세계관 자료·로어북 삭제, 출처 초안을 보존하는 로어북 삭제 API·감사 기록
 - 글 만들기 대규모 자료 카드의 비겹침 방지·독립 스크롤·전역 하단 바와 겹치지 않는 고정 `자료 더 보기`
-- 로어북 책장 상단의 브라우저 로컬 열람 테마 4종: 기존 노말, 생성·최적화한 양피지 판타지아, CRT 메카니컬, 네온 누아르 어반 판타지 질감과 읽기/편집 고대비, 번호·금색 ring·ARIA 선택 표현
+- 로어북 책장 상단의 브라우저 로컬 열람 테마 4종: 기존 노말, 밝은 양피지·굵은 적갈색 판타지아, 단순 선형 암부·형광 녹색·배경 글리치 메카니컬, 공포 질감 없는 남색 도시 네온 어반 판타지, 이미지보다 어두운 작업면 여백과 공통 진녹색·금색 `글 편집`, 읽기/편집 고대비·번호·금색 ring·ARIA 선택 표현
 - `$lore-studio-ui-safety` 프로젝트 로컬 skill과 읽기 전용 정적 preflight: UI 계약·변경 체크리스트 기반 반복 점검, 5개 route·migration head·manifest·API 경유 규칙 확인, 기능 계약과 점검 절차의 변경 범위에 따른 문서·테스트·skill 동기화
 
 ## 실제 환경 증거
